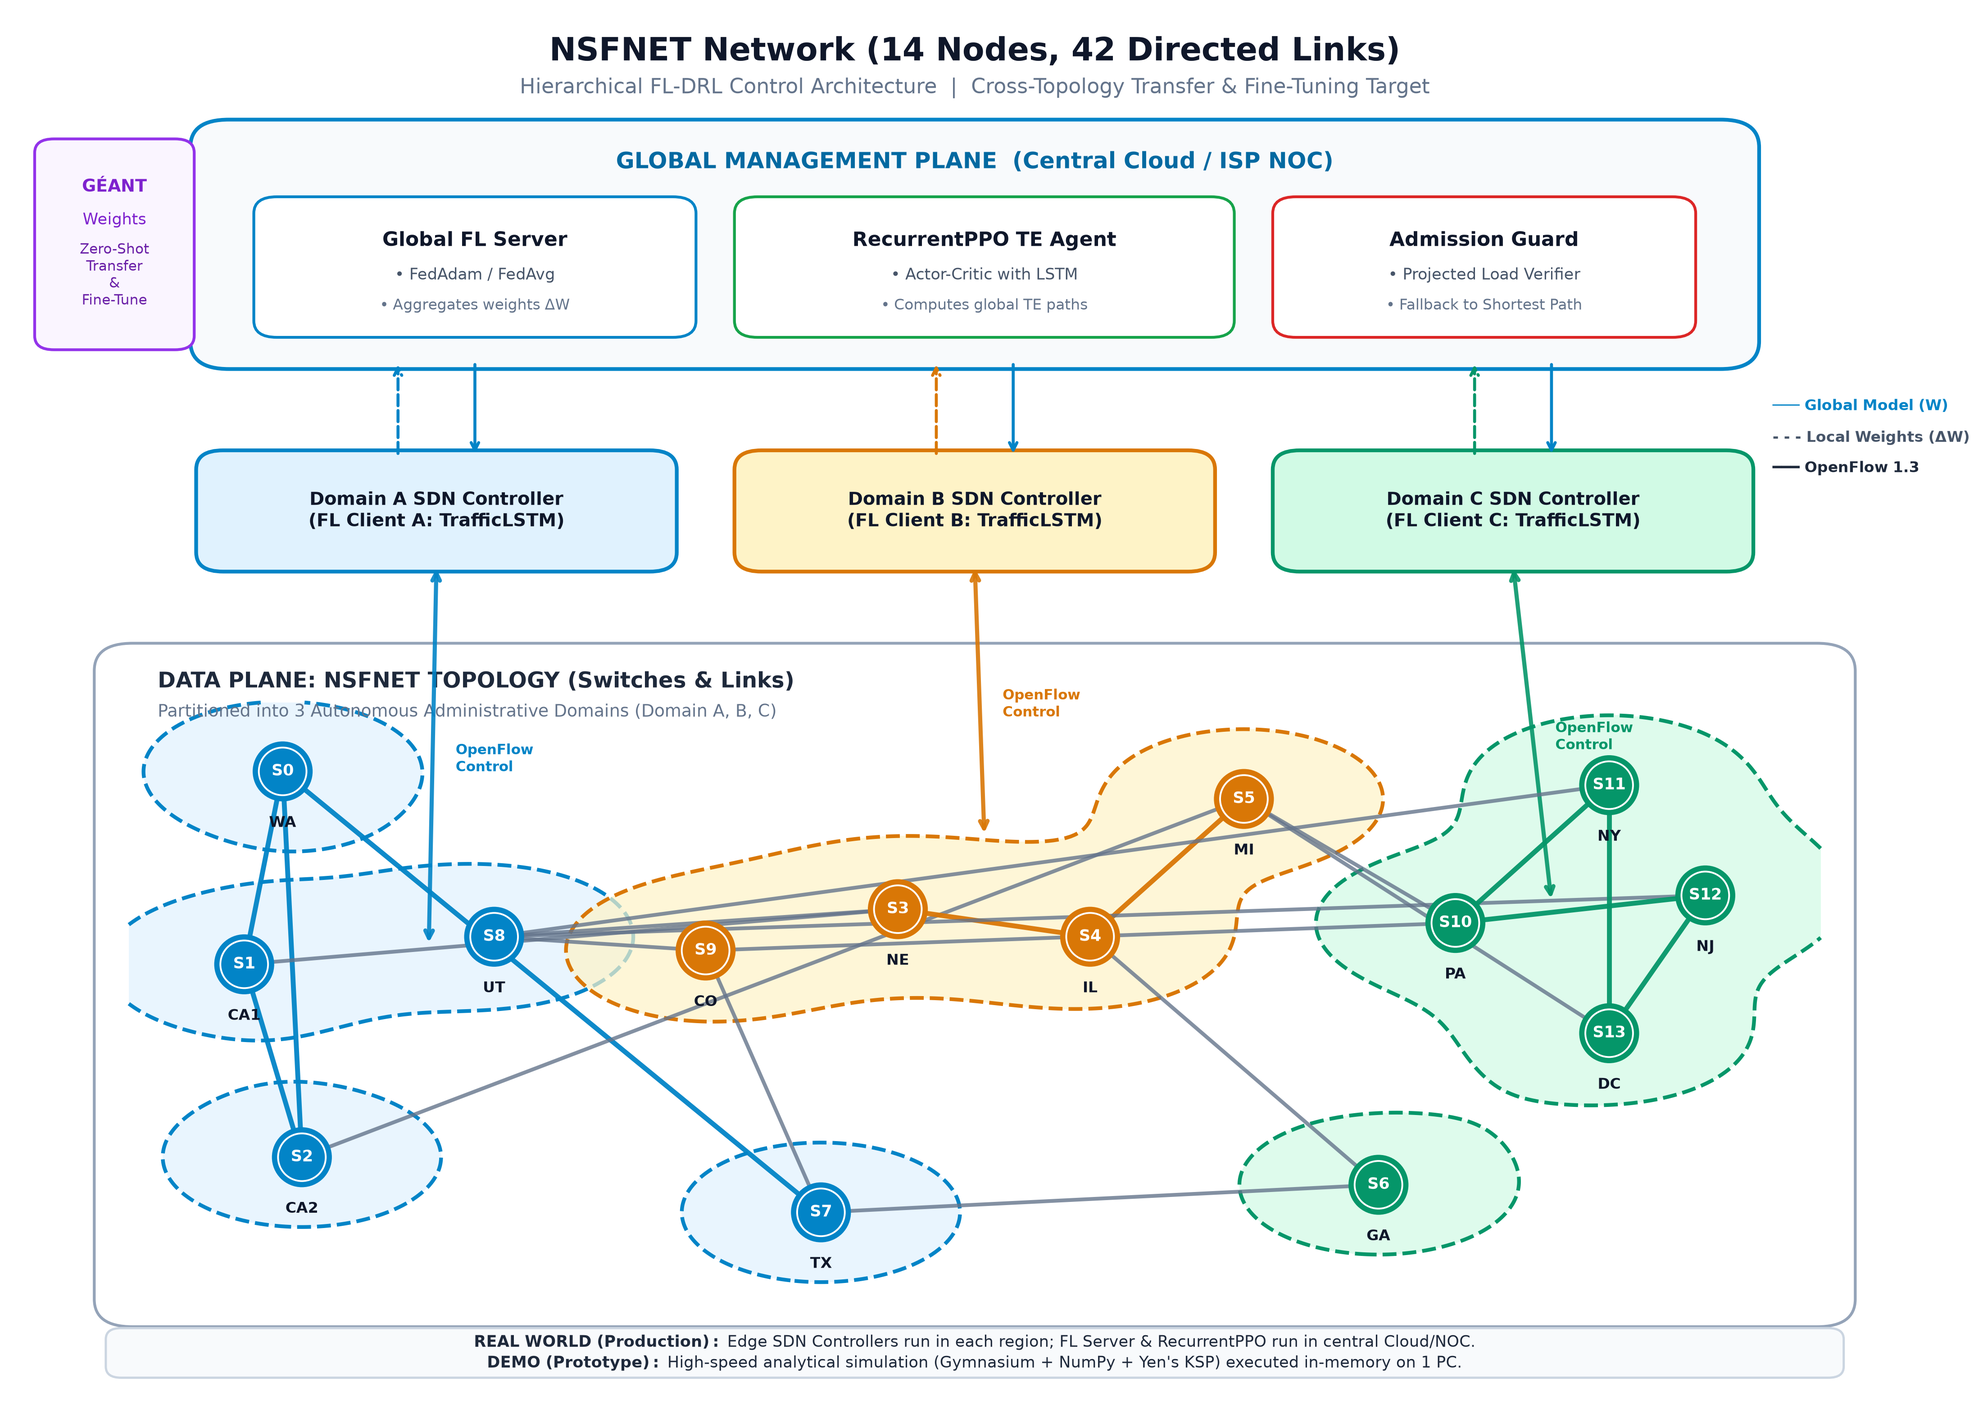
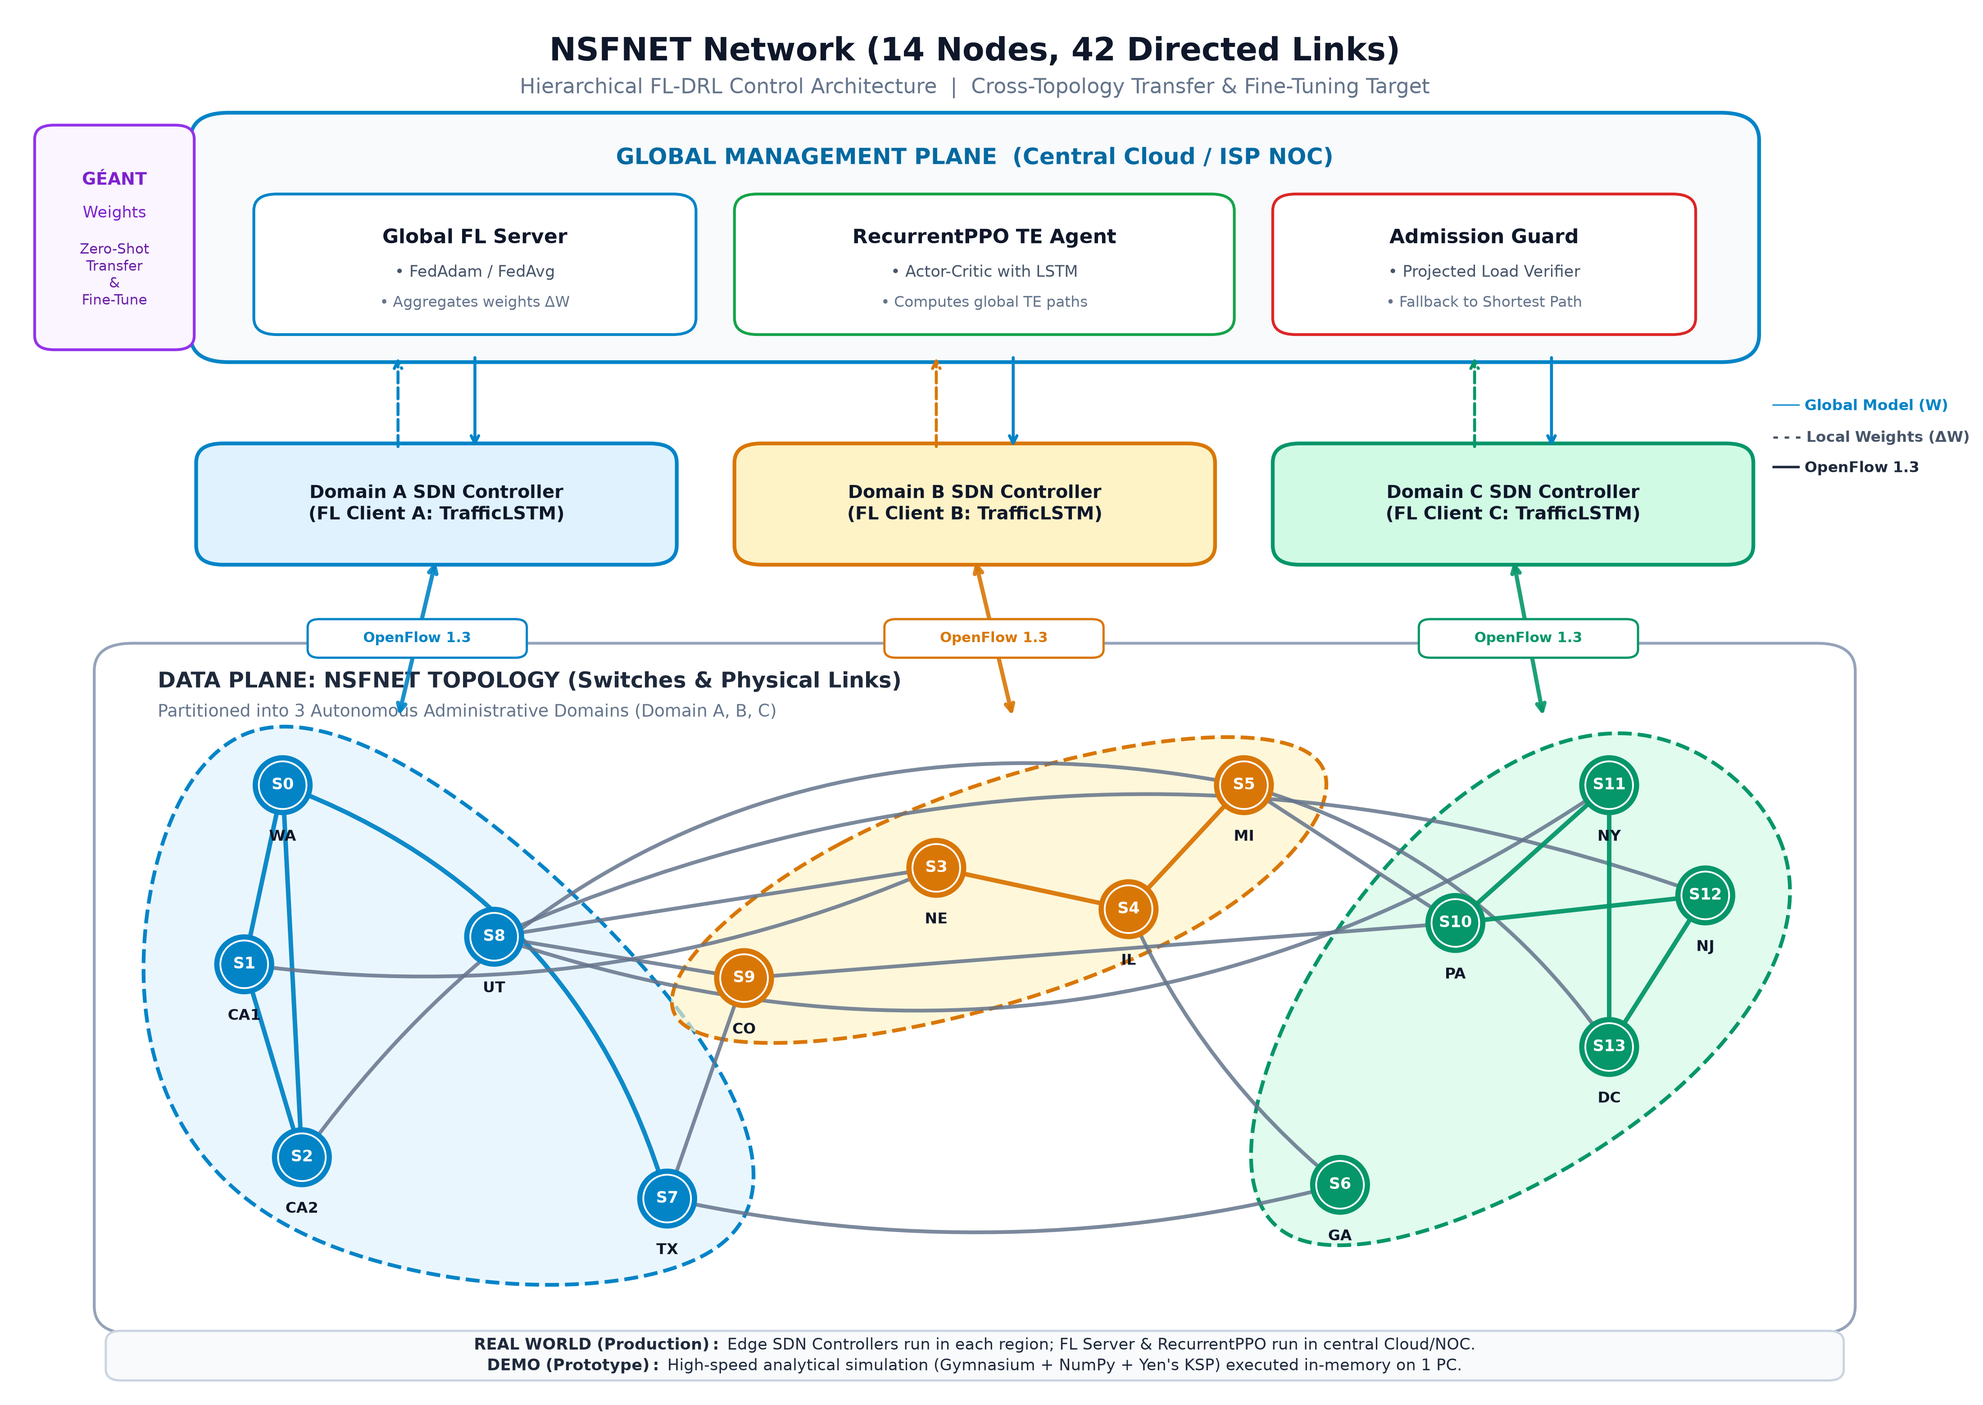
Merge domain regions into 100% unified continuous zones and add curved arcs to eliminate link overlaps

diff --git a/scratch/generate_topology_diagrams_v3.py b/scratch/generate_topology_diagrams_v3.py
@@ -1,0 +1,371 @@
+import json
+import numpy as np
+import matplotlib.pyplot as plt
+from matplotlib.patches import FancyBboxPatch, FancyArrowPatch
+from scipy.spatial import ConvexHull
+from scipy.interpolate import splprep, splev
+
+# Font and general styling
+plt.rcParams['font.sans-serif'] = 'DejaVu Sans'
+plt.rcParams['font.family'] = 'sans-serif'
+
+# Colors for domains (Modern accessible palette)
+COLOR_A = "#0284c7"  # Deep Sky Blue
+COLOR_B = "#d97706"  # Warm Amber
+COLOR_C = "#059669"  # Emerald Green
+
+BG_A = "#e0f2fe"
+BG_B = "#fef3c7"
+BG_C = "#d1fae5"
+
+DOMAIN_COLORS = {'A': COLOR_A, 'B': COLOR_B, 'C': COLOR_C}
+DOMAIN_BG = {'A': BG_A, 'B': BG_B, 'C': BG_C}
+
+# =============================================================================
+# 1. TOPOLOGY COORDINATES (Carefully tuned to avoid line crossovers)
+# =============================================================================
+
+# NSFNET (14 nodes)
+# Positioned cleanly: West (A), Central (B), East (C)
+# TX (7) is placed so Domain A forms ONE continuous unified shape without splitting
+NSFNET_COORDS = {
+    0: (14, 44),   # WA
+    1: (12, 31),   # CA1
+    2: (15, 17),   # CA2
+    8: (25, 33),   # UT
+    7: (34, 14),   # TX (continuous with Domain A)
+    9: (38, 30),   # CO
+    3: (48, 38),   # NE
+    4: (58, 35),   # IL
+    5: (64, 44),   # MI
+    6: (69, 15),   # GA
+    10: (75, 34),  # PA
+    11: (83, 44),  # NY
+    12: (88, 36),  # NJ
+    13: (83, 25),  # DC
+}
+
+# NSFNET Curvatures to completely eliminate straight-line overlaps & cross-cutting
+NSFNET_CURVATURES = {
+    (0, 7): -0.25,   # WA <---> TX: curves outward to the west/south, clearing UT and CA
+    (2, 5): -0.32,   # CA2 <---> MI: curves along the southern border, clearing CO/IL
+    (8, 11): 0.25,   # UT <---> NY: curves gracefully over the north, clearing NE/IL/MI/PA
+    (8, 12): -0.20,  # UT <---> NJ: curves slightly south
+    (1, 3): 0.14,    # CA1 <---> NE: curves north of UT
+    (5, 13): -0.18,  # MI <---> DC: curves south of PA
+    (4, 6): 0.12,    # IL <---> GA: slight curve
+    (6, 7): -0.12,   # GA <---> TX: slight curve along the south
+}
+
+# ABILENE (12 nodes)
+ABILENE_COORDS = {
+    10: (15, 45),  # STTL
+    9: (13, 31),   # SNVA
+    7: (17, 18),   # LOSA
+    3: (32, 33),   # DNVR
+    6: (47, 32),   # KSCY
+    2: (57, 43),   # CHIN
+    5: (63, 33),   # IPLS
+    4: (48, 14),   # HSTN
+    0: (72, 14),   # ATLAM5
+    1: (75, 23),   # ATLA
+    11: (82, 30),  # WASH
+    8: (88, 42),   # NYCM
+}
+
+ABILENE_CURVATURES = {
+    (3, 10): 0.20,   # DNVR <---> STTL: curves north, clearing SNVA
+    (4, 7): -0.22,   # HSTN <---> LOSA: curves along the south, clearing everything
+    (2, 8): 0.16,    # CHIN <---> NYCM: curves north, clearing WASH
+    (1, 4): -0.15,   # ATLA <---> HSTN: curves gently along the south
+}
+
+# GÉANT (22 nodes)
+GEANT_COORDS = {
+    11: (13, 40),  # IE
+    21: (22, 39),  # UK
+    7: (26, 27),   # FR
+    1: (32, 37),   # BE
+    15: (35, 45),  # NL
+    16: (39, 49),  # NO
+    19: (48, 49),  # SE
+    4: (43, 33),   # DE
+    2: (36, 24),   # CH
+    3: (52, 34),   # CZ
+    0: (54, 25),   # AT
+    17: (63, 42),  # PL
+    10: (64, 25),  # HU
+    20: (50, 16),  # SI
+    9: (58, 15),   # HR
+    18: (11, 14),  # PT
+    6: (19, 16),   # ES
+    14: (33, 20),  # LU
+    13: (44, 18),  # IT
+    5: (47, 42),   # DK
+    8: (75, 14),   # GR
+    12: (87, 12),  # IL
+}
+
+GEANT_CURVATURES = {
+    (12, 13): -0.28,  # IL <---> IT: curves across the Mediterranean
+    (17, 19): 0.22,   # PL <---> SE: curves over the Baltic
+    (1, 21): 0.15,    # BE <---> UK: curves over the North Sea
+    (7, 13): -0.18,   # FR <---> IT: curves south of Alps
+    (4, 17): 0.15,    # DE <---> PL: slight curve
+    (5, 16): 0.15,    # DK <---> NO: curves over water
+}
+
+# =============================================================================
+# 2. HELPER TO DRAW A 100% UNIFIED, CONTINUOUS SMOOTH REGION
+# =============================================================================
+def draw_unified_domain_zone(ax, pts, border_color, fill_color, pad=4.8):
+    """Draws a smooth, organic, 100% continuous closed region enclosing all pts."""
+    pts = np.array(pts)
+    if len(pts) < 3:
+        # If 2 points, draw an ellipse/capsule
+        p1, p2 = pts[0], pts[1]
+        mid = (p1 + p2) / 2
+        ax.scatter([mid[0]], [mid[1]], s=2500, c=fill_color, edgecolors=border_color, lw=2, ls='--', zorder=2)
+        return
+
+    # Convex hull ensures 100% CONNECTEDNESS (impossible to split into pieces)
+    hull = ConvexHull(pts)
+    hull_pts = pts[hull.vertices]
+    
+    # Expand hull vertices outward from domain center
+    center = np.mean(pts, axis=0)
+    expanded = []
+    for p in hull_pts:
+        vec = p - center
+        dist = np.linalg.norm(vec)
+        unit = vec / (dist + 1e-6)
+        expanded.append(p + unit * pad)
+        
+    expanded = np.array(expanded)
+    loop = np.vstack([expanded, expanded[0]])
+    
+    # Periodic cubic spline produces smooth rounded boundaries with ZERO spikes
+    tck, u = splprep([loop[:, 0], loop[:, 1]], s=2.5, per=True)
+    u_fine = np.linspace(0, 1, 350)
+    sx, sy = splev(u_fine, tck)
+    
+    ax.fill(sx, sy, color=fill_color, alpha=0.65, zorder=2)
+    ax.plot(sx, sy, color=border_color, lw=2.0, ls='--', zorder=2)
+
+# =============================================================================
+# 3. MAIN DIAGRAM RENDERER
+# =============================================================================
+def draw_topology_diagram_v3(topo_key, output_path):
+    fig_w, fig_h = 15.0, 10.5
+    fig, ax = plt.subplots(figsize=(fig_w, fig_h), dpi=300)
+    ax.set_xlim(0, 100)
+    ax.set_ylim(0, 100)
+    ax.axis('off')
+
+    with open(f"data/{topo_key}_topology.json") as f:
+        topo_data = json.load(f)
+
+    nodes = topo_data['nodes']
+    links = topo_data['links']
+    coords = {'nsfnet': NSFNET_COORDS, 'abilene': ABILENE_COORDS, 'geant': GEANT_COORDS}[topo_key]
+    curvatures = {'nsfnet': NSFNET_CURVATURES, 'abilene': ABILENE_CURVATURES, 'geant': GEANT_CURVATURES}[topo_key]
+
+    title_map = {
+        'geant': ('GÉANT Network (22 Nodes, 72 Directed Links)', 'Source In-Domain Training Topology'),
+        'nsfnet': ('NSFNET Network (14 Nodes, 42 Directed Links)', 'Cross-Topology Transfer & Fine-Tuning Target'),
+        'abilene': ('Abilene Network (12 Nodes, 30 Directed Links)', 'Cross-Topology Transfer & Zero-Padding Target')
+    }
+    main_title, sub_title = title_map[topo_key]
+
+    # Title & Subtitle
+    ax.text(50, 97.2, main_title, fontsize=17, fontweight='bold', ha='center', va='center', color='#0f172a')
+    ax.text(50, 94.6, f"Hierarchical FL-DRL Control Architecture  |  {sub_title}", 
+            fontsize=11, ha='center', va='center', color='#64748b')
+
+    # =========================================================================
+    # TIER 1: CENTRAL MANAGEMENT PLANE (Cloud / Central NOC)
+    # =========================================================================
+    top_box = FancyBboxPatch((10, 75.5), 80, 16.5, boxstyle="round,pad=0.8,rounding_size=2.0",
+                             ec="#0284c7", fc="#f8fafc", lw=2, zorder=2)
+    ax.add_patch(top_box)
+    
+    ax.text(50, 89.5, "GLOBAL MANAGEMENT PLANE  (Central Cloud / ISP NOC)",
+            fontsize=12, fontweight='bold', ha='center', va='center', color="#0369a1")
+
+    # 1. Global FL Server
+    fl_srv_box = FancyBboxPatch((13, 77.2), 22, 9.2, boxstyle="round,pad=0.5,rounding_size=1.2",
+                                ec="#0284c7", fc="#ffffff", lw=1.5, zorder=3)
+    ax.add_patch(fl_srv_box)
+    ax.text(24, 83.7, "Global FL Server", fontsize=10.5, fontweight='bold', ha='center', va='center', color='#0f172a')
+    ax.text(24, 81.2, "• FedAdam / FedAvg", fontsize=8.5, ha='center', va='center', color='#475569')
+    ax.text(24, 79.0, "• Aggregates weights ΔW", fontsize=8, ha='center', va='center', color='#64748b')
+
+    # 2. RecurrentPPO Agent
+    rl_box = FancyBboxPatch((38, 77.2), 25, 9.2, boxstyle="round,pad=0.5,rounding_size=1.2",
+                            ec="#16a34a", fc="#ffffff", lw=1.5, zorder=3)
+    ax.add_patch(rl_box)
+    ax.text(50.5, 83.7, "RecurrentPPO TE Agent", fontsize=10.5, fontweight='bold', ha='center', va='center', color='#0f172a')
+    ax.text(50.5, 81.2, "• Actor-Critic with LSTM", fontsize=8.5, ha='center', va='center', color='#475569')
+    ax.text(50.5, 79.0, "• Computes global TE paths", fontsize=8, ha='center', va='center', color='#64748b')
+
+    # 3. Admission Guard
+    guard_box = FancyBboxPatch((66, 77.2), 21, 9.2, boxstyle="round,pad=0.5,rounding_size=1.2",
+                               ec="#dc2626", fc="#ffffff", lw=1.5, zorder=3)
+    ax.add_patch(guard_box)
+    ax.text(76.5, 83.7, "Admission Guard", fontsize=10.5, fontweight='bold', ha='center', va='center', color='#0f172a')
+    ax.text(76.5, 81.2, "• Projected Load Verifier", fontsize=8.5, ha='center', va='center', color='#475569')
+    ax.text(76.5, 79.0, "• Fallback to Shortest Path", fontsize=8, ha='center', va='center', color='#64748b')
+
+    # Side badges for Transfer & Fine-Tuning
+    if topo_key == 'nsfnet':
+        t_box = FancyBboxPatch((1.5, 76), 7.5, 15.5, boxstyle="round,pad=0.4,rounding_size=1.0",
+                               ec="#9333ea", fc="#faf5ff", lw=1.5, zorder=3)
+        ax.add_patch(t_box)
+        ax.text(5.25, 88.0, "GÉANT", fontsize=9, fontweight='bold', ha='center', va='center', color='#7e22ce')
+        ax.text(5.25, 85.5, "Weights", fontsize=8.5, ha='center', va='center', color='#7e22ce')
+        ax.text(5.25, 81.0, "Zero-Shot\nTransfer\n&\nFine-Tune", fontsize=7.5, ha='center', va='center', color='#6b21a8')
+        arrow = FancyArrowPatch((9.2, 83.5), (12.8, 83.5), arrowstyle='->', mutation_scale=15, color='#9333ea', lw=2)
+        ax.add_patch(arrow)
+
+    elif topo_key == 'abilene':
+        t_box = FancyBboxPatch((1.5, 76), 7.5, 15.5, boxstyle="round,pad=0.4,rounding_size=1.0",
+                               ec="#9333ea", fc="#faf5ff", lw=1.5, zorder=3)
+        ax.add_patch(t_box)
+        ax.text(5.25, 88.0, "GÉANT", fontsize=9, fontweight='bold', ha='center', va='center', color='#7e22ce')
+        ax.text(5.25, 85.5, "Weights", fontsize=8.5, ha='center', va='center', color='#7e22ce')
+        ax.text(5.25, 80.5, "Zero-Padding\n(174d → 75d)\n&\nFine-Tune", fontsize=7, ha='center', va='center', color='#6b21a8')
+        arrow = FancyArrowPatch((9.2, 83.5), (12.8, 83.5), arrowstyle='->', mutation_scale=15, color='#9333ea', lw=2)
+        ax.add_patch(arrow)
+
+    # =========================================================================
+    # TIER 2: REGIONAL CONTROL LAYER (Domain Controllers / FL Clients)
+    # =========================================================================
+    ctrl_specs = [
+        ('A', 22, COLOR_A, BG_A, "Domain A SDN Controller\n(FL Client A: TrafficLSTM)"),
+        ('B', 50, COLOR_B, BG_B, "Domain B SDN Controller\n(FL Client B: TrafficLSTM)"),
+        ('C', 78, COLOR_C, BG_C, "Domain C SDN Controller\n(FL Client C: TrafficLSTM)")
+    ]
+
+    ctrl_centers = {}
+    for dom, cx, col, bg, label in ctrl_specs:
+        c_box = FancyBboxPatch((cx - 12, 60.5), 24, 7.8, boxstyle="round,pad=0.5,rounding_size=1.4",
+                               ec=col, fc=bg, lw=2, zorder=3)
+        ax.add_patch(c_box)
+        ax.text(cx, 64.4, label, fontsize=9.5, fontweight='bold', ha='center', va='center', color='#0f172a')
+        ctrl_centers[dom] = (cx, 60.5)
+
+        # FL Communication arrows with Central Server
+        ax.annotate('', xy=(cx - 2, 75.3), xytext=(cx - 2, 68.3),
+                    arrowprops=dict(arrowstyle="->", color=col, lw=1.6, ls="--"))
+        ax.annotate('', xy=(cx + 2, 68.3), xytext=(cx + 2, 75.3),
+                    arrowprops=dict(arrowstyle="->", color="#0284c7", lw=1.6))
+
+    # Communication legend
+    ax.text(91.5, 71.5, "─── Global Model (W)", fontsize=8, color="#0284c7", ha='left', va='center', fontweight='bold')
+    ax.text(91.5, 69.2, "- - - Local Weights (ΔW)", fontsize=8, color="#475569", ha='left', va='center', fontweight='bold')
+    ax.text(91.5, 67.0, "━━━ OpenFlow 1.3", fontsize=8, color="#1e293b", ha='left', va='center', fontweight='bold')
+
+    # =========================================================================
+    # TIER 3: DATA PLANE (Network Topology with 100% UNIFIED DOMAIN ZONES)
+    # =========================================================================
+    dp_bg = FancyBboxPatch((5, 5.0), 90, 48.5, boxstyle="round,pad=0.8,rounding_size=2.0",
+                           ec="#94a3b8", fc="#ffffff", lw=1.5, zorder=1)
+    ax.add_patch(dp_bg)
+    
+    ax.text(7.5, 51.5, f"DATA PLANE: {topo_key.upper()} TOPOLOGY (Switches & Physical Links)",
+            fontsize=11.5, fontweight='bold', ha='left', va='center', color="#1e293b")
+    ax.text(7.5, 49.3, "Partitioned into 3 Autonomous Administrative Domains (Domain A, B, C)",
+            fontsize=9, ha='left', va='center', color="#64748b")
+
+    # Draw 100% UNIFIED, continuous domain shapes (never split!)
+    domain_nodes_dict = {
+        dom: [n['id'] for n in nodes if n['domain'] == dom]
+        for dom in ['A', 'B', 'C']
+    }
+
+    for dom in ['A', 'B', 'C']:
+        dom_pts = [coords[nid] for nid in domain_nodes_dict[dom]]
+        draw_unified_domain_zone(ax, dom_pts, DOMAIN_COLORS[dom], DOMAIN_BG[dom], pad=4.8)
+
+    # Southbound OpenFlow Control: clean connections to the top of each domain zone
+    for dom in ['A', 'B', 'C']:
+        cx, cy = ctrl_centers[dom]
+        dom_pts = [coords[nid] for nid in domain_nodes_dict[dom]]
+        avg_x = np.mean([p[0] for p in dom_pts])
+        # Find highest point of that domain to connect cleanly without cutting across links
+        max_y = max(p[1] for p in dom_pts) + 4.8
+        
+        ax.annotate('', xy=(avg_x, max_y), xytext=(cx, 60.5),
+                    arrowprops=dict(arrowstyle="<->", color=DOMAIN_COLORS[dom], lw=2.2, alpha=0.9))
+        
+        # Pill badge on arrow
+        mid_x, mid_y = (cx + avg_x) / 2, (60.5 + max_y) / 2
+        badge = FancyBboxPatch((mid_x - 5.5, mid_y - 1.2), 11, 2.4, boxstyle="round,pad=0.2,rounding_size=0.6",
+                               ec=DOMAIN_COLORS[dom], fc="#ffffff", lw=1.2, zorder=4)
+        ax.add_patch(badge)
+        ax.text(mid_x, mid_y, "OpenFlow 1.3", fontsize=7.5, ha='center', va='center',
+                color=DOMAIN_COLORS[dom], fontweight='bold', zorder=5)
+
+    # Draw Links (Curved for crossing links, straight for direct adjacent links)
+    for link in links:
+        u, v = link['source'], link['target']
+        p1, p2 = coords[u], coords[v]
+        dom_u = nodes[u]['domain']
+        dom_v = nodes[v]['domain']
+        
+        if dom_u == dom_v:
+            edge_col = DOMAIN_COLORS[dom_u]
+            edge_lw = 2.4
+            edge_alpha = 0.95
+        else:
+            edge_col = "#64748b"
+            edge_lw = 2.0
+            edge_alpha = 0.85
+            
+        rad = curvatures.get((u, v), curvatures.get((v, u), 0.0))
+        if rad != 0.0:
+            arc = FancyArrowPatch(posA=p1, posB=p2, connectionstyle=f"arc3,rad={rad}",
+                                  arrowstyle='-', color=edge_col, lw=edge_lw, alpha=edge_alpha, zorder=3)
+            ax.add_patch(arc)
+        else:
+            ax.plot([p1[0], p2[0]], [p1[1], p2[1]], color=edge_col, lw=edge_lw, alpha=edge_alpha, zorder=3)
+
+    # Draw Nodes: 100% Mathematically Perfect Circles
+    node_xs = [coords[n['id']][0] for n in nodes]
+    node_ys = [coords[n['id']][1] for n in nodes]
+    node_colors = [DOMAIN_COLORS[n['domain']] for n in nodes]
+
+    # Halo + Disc
+    ax.scatter(node_xs, node_ys, s=850, c='#ffffff', edgecolors=node_colors, linewidths=2.8, zorder=5)
+    ax.scatter(node_xs, node_ys, s=550, c=node_colors, zorder=6)
+
+    # Node Labels
+    for n in nodes:
+        nid = n['id']
+        px, py = coords[nid]
+        lbl = n['label']
+        ax.text(px, py, f"S{nid}", fontsize=8.5, fontweight='bold', ha='center', va='center', color='#ffffff', zorder=7)
+        ax.text(px, py - 3.2, lbl, fontsize=8, fontweight='bold', ha='center', va='top', color='#0f172a', zorder=7)
+
+    # =========================================================================
+    # FOOTER BANNER (IRL vs Demo Distinction)
+    # =========================================================================
+    footer_box = FancyBboxPatch((5, 1.0), 90, 3.2, boxstyle="round,pad=0.2,rounding_size=0.8",
+                                ec="#cbd5e1", fc="#f8fafc", lw=1.2, zorder=2)
+    ax.add_patch(footer_box)
+    
+    info_text = (
+        r"$\bf{REAL\ WORLD\ (Production):}$ Edge SDN Controllers run in each region; FL Server & RecurrentPPO run in central Cloud/NOC."
+        "\n"
+        r"$\bf{DEMO\ (Prototype):}$ High-speed analytical simulation (Gymnasium + NumPy + Yen's KSP) executed in-memory on 1 PC."
+    )
+    ax.text(50, 2.6, info_text, fontsize=8.5, ha='center', va='center', color='#1e293b', linespacing=1.3)
+
+    plt.tight_layout()
+    plt.savefig(output_path, dpi=300, bbox_inches='tight')
+    plt.close()
+    print(f"Generated clean v3 diagram: {output_path}")
+
+if __name__ == '__main__':
+    for topo in ['geant', 'nsfnet', 'abilene']:
+        draw_topology_diagram_v3(topo, f"report/figures/topology_deployment_{topo}.png")
